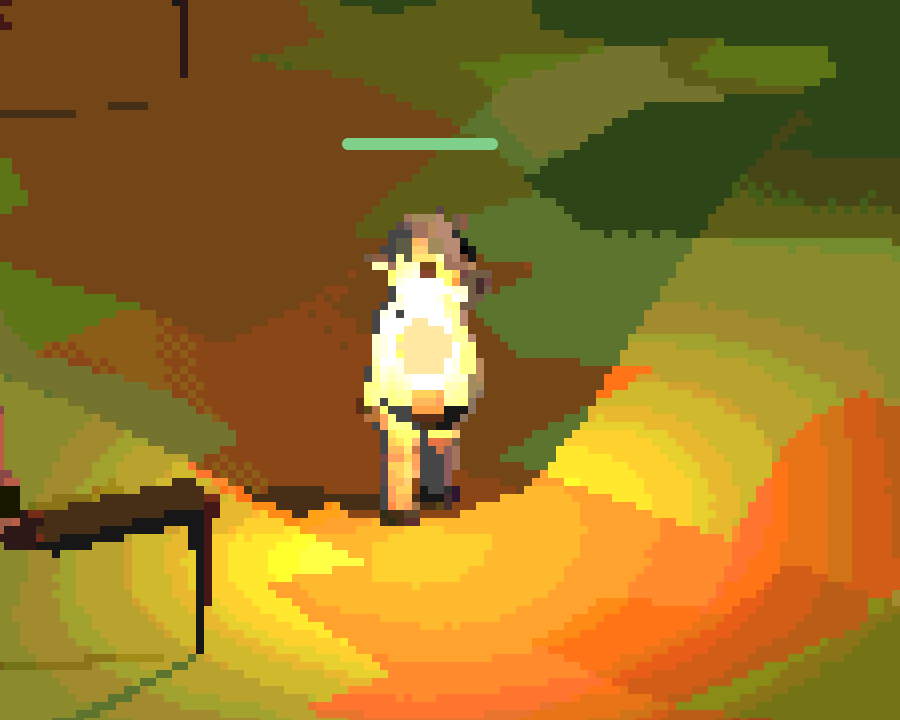
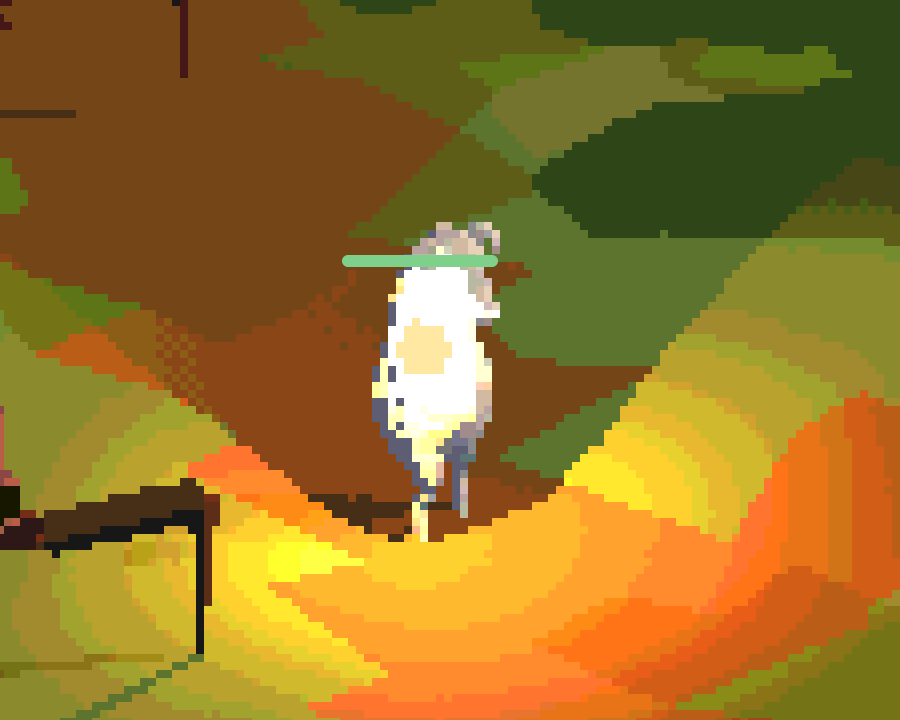
Stop the Play tab wiping the default roster on mount
The player was still the cow. `setAuthoredUnits` replaces the whole table by
design -- so that "remove a unit" is expressible -- and the Play tab calls it on
mount with `unitsFromQuery()`, which is `{}` when nobody typed `?units=`. The
default row went in the module's initial map, and the first mount deleted it
before a frame was drawn. No error, no refusal, no missing asset: just the rig
that was there before, which is precisely the fallback this seam was built to
make invisible.

So the default is an exported value the caller spreads, rather than state this
module holds and hopes nobody replaces. The query still overrides it, which is
what `?units=player:mannequin` now means.

The check that would have caught it, and now does: the page fetches
`pig_a_pose_full.glb` and all five clips. That is a fact about the network
rather than a reading of a screenshot -- and a screenshot is exactly what I read
last time, on a body sixty pixels tall, and called a cow a pig.

Claude-Session: https://claude.ai/code/session_012oF2xV5ZYeX6nA3TGrV8JX

diff --git a/src/render/iso3d/world/unit-catalog.test.ts b/src/render/iso3d/world/unit-catalog.test.ts
@@ -2,7 +2,14 @@ import { afterEach, describe, expect, it } from 'vitest';
 import { EntityKind } from '../../../server/net/protocol.js';
 import { appearanceOf } from './appearance.js';
 import { authoredUnitIds } from './unit-assets.js';
-import { authoredUnitFor, authoredUnits, setAuthoredUnits, unitsFromQuery } from './unit-catalog.js';
+import {
+  authoredUnitFor,
+  authoredUnits,
+  DEFAULT_AUTHORED_UNITS,
+  PLAYER_TYPE_ID,
+  setAuthoredUnits,
+  unitsFromQuery,
+} from './unit-catalog.js';
 
 afterEach(() => {
   setAuthoredUnits({});
@@ -80,5 +87,28 @@ describe('the roster is discovered, not listed (spec 113)', () => {
   it('is empty without the switch, so the arena is unchanged', () => {
     expect(unitsFromQuery('')).toEqual({});
     expect(unitsFromQuery('?seed=7')).toEqual({});
+  });
+});
+
+describe('the default roster surviving a caller', () => {
+  it('is a value a caller can spread, not just the map this module starts with', () => {
+    // The bug this exists to stop coming back. The Play tab calls
+    // `setAuthoredUnits(unitsFromQuery())` on mount, and that replaces the whole
+    // table by design -- so an empty query wiped the default before the first
+    // frame and the player went on being drawn by the critter rig, with nothing
+    // anywhere reporting a problem. A default only the module knows about is a
+    // default one caller can silently delete.
+    expect(DEFAULT_AUTHORED_UNITS[PLAYER_TYPE_ID]).toBe('pig_a_pose_full');
+
+    setAuthoredUnits(unitsFromQuery('?seed=1'));
+    expect(authoredUnitFor(appearanceOf({ kind: EntityKind.Player, typeId: 'player' }))).toBeNull();
+
+    setAuthoredUnits({ ...DEFAULT_AUTHORED_UNITS, ...unitsFromQuery('?seed=1') });
+    expect(authoredUnitFor(appearanceOf({ kind: EntityKind.Player, typeId: 'player' }))).toBe('pig_a_pose_full');
+  });
+
+  it('lets the query override the default rather than only adding to it', () => {
+    setAuthoredUnits({ ...DEFAULT_AUTHORED_UNITS, ...unitsFromQuery('?units=player:mannequin') });
+    expect(authoredUnitFor(appearanceOf({ kind: EntityKind.Player, typeId: 'player' }))).toBe('mannequin');
   });
 });

diff --git a/src/render/iso3d/world/unit-catalog.ts b/src/render/iso3d/world/unit-catalog.ts
@@ -42,7 +42,11 @@ export const PLAYER_TYPE_ID = 'player';
  * property this seam exists to keep -- adding a unit is adding a row, and a
  * missing row changes nothing.
  */
-const authored = new Map<string, AuthoredUnitId>([[PLAYER_TYPE_ID, 'pig_a_pose_full']]);
+export const DEFAULT_AUTHORED_UNITS: Readonly<Record<string, AuthoredUnitId>> = {
+  [PLAYER_TYPE_ID]: 'pig_a_pose_full',
+};
+
+const authored = new Map<string, AuthoredUnitId>(Object.entries(DEFAULT_AUTHORED_UNITS));
 
 /**
  * Points a set of type ids at authored units.
@@ -51,6 +55,12 @@ const authored = new Map<string, AuthoredUnitId>([[PLAYER_TYPE_ID, 'pig_a_pose_f
  * table without this module having to know which of them did it. Replaces
  * rather than merges: a caller setting the table is describing the whole roster,
  * and a merge would make "remove a unit" impossible to express.
+ *
+ * Which is why {@link DEFAULT_AUTHORED_UNITS} has to be spread in by the caller
+ * that wants it. The Play tab calls this on mount with whatever `?units=` says,
+ * and an empty query is still a whole roster -- so a default living only in this
+ * module's initial map was wiped before the first frame, and the player kept
+ * drawing as the critter rig with nothing anywhere reporting a problem.
  */
 export function setAuthoredUnits(entries: Readonly<Record<string, AuthoredUnitId>>): void {
   authored.clear();

diff --git a/src/render/iso3d/world/view.ts b/src/render/iso3d/world/view.ts
@@ -36,7 +36,7 @@ import {
 import { abilityById, BASIC_ATTACK_ID } from '../../../server/data/abilities.js';
 import { EntityKind } from '../../../server/net/protocol.js';
 import { viewSeed } from '../seed.js';
-import { setAuthoredUnits, unitsFromQuery } from './unit-catalog.js';
+import { DEFAULT_AUTHORED_UNITS, setAuthoredUnits, unitsFromQuery } from './unit-catalog.js';
 import { ASSET_MANIFEST_HASH } from './unit-assets.js';
 import mapText from '../../../../maps/arena.json?raw';
 import { parseMap } from '../../../terrain/map.js';
@@ -87,7 +87,11 @@ export function mountWorld(container: HTMLElement): ViewHandle {
   const seed = viewSeed();
   // Which monsters are drawn from an authored unit (spec 111). Empty unless
   // `?units=` says otherwise, so the arena looks exactly as it did.
-  setAuthoredUnits(unitsFromQuery());
+  // The defaults first, then whatever `?units=` overrides. `setAuthoredUnits`
+  // replaces the whole table by design, so passing the query alone wiped the
+  // default roster on every mount -- which is exactly how the player went on
+  // being drawn by the critter rig after being pointed at an authored unit.
+  setAuthoredUnits({ ...DEFAULT_AUTHORED_UNITS, ...unitsFromQuery() });
   const world = buildWorldFromMap(parseMap(mapText), mapText);
 
   const transport = new LoopbackTransport();
